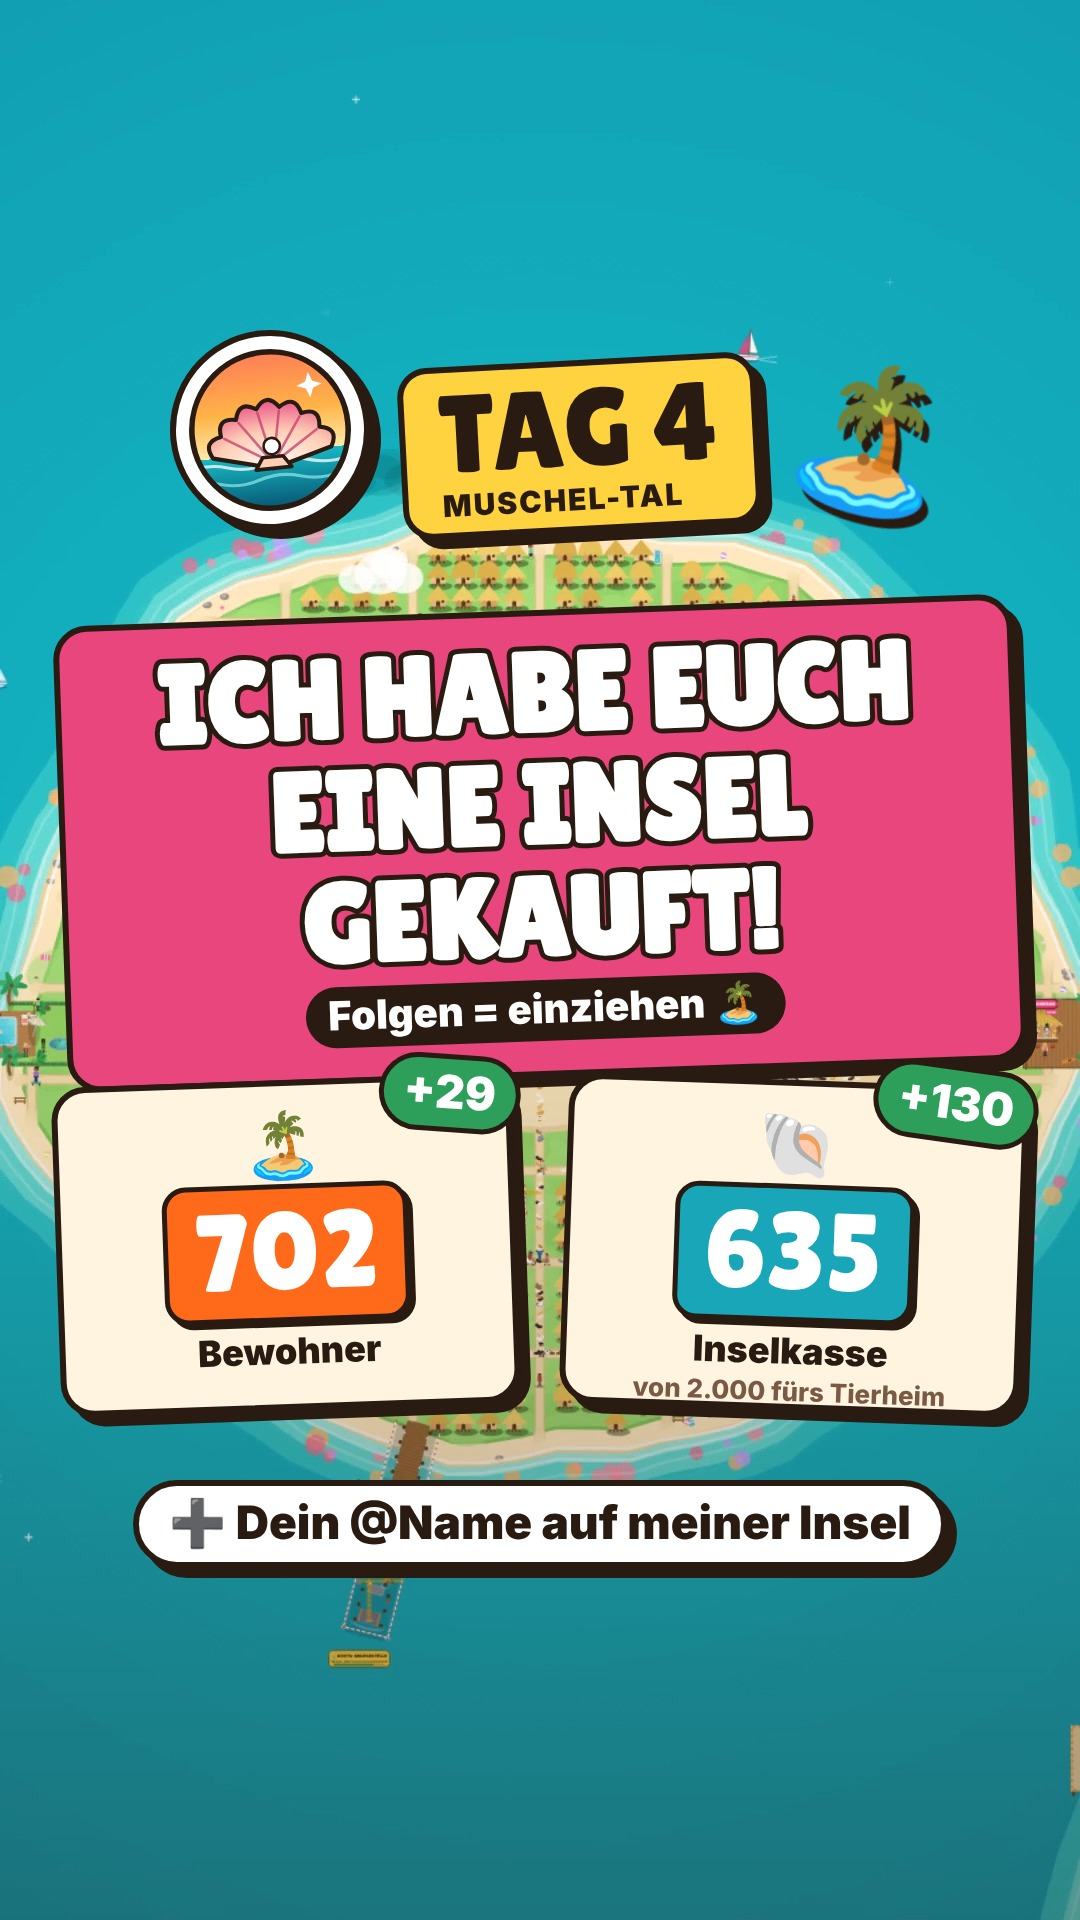
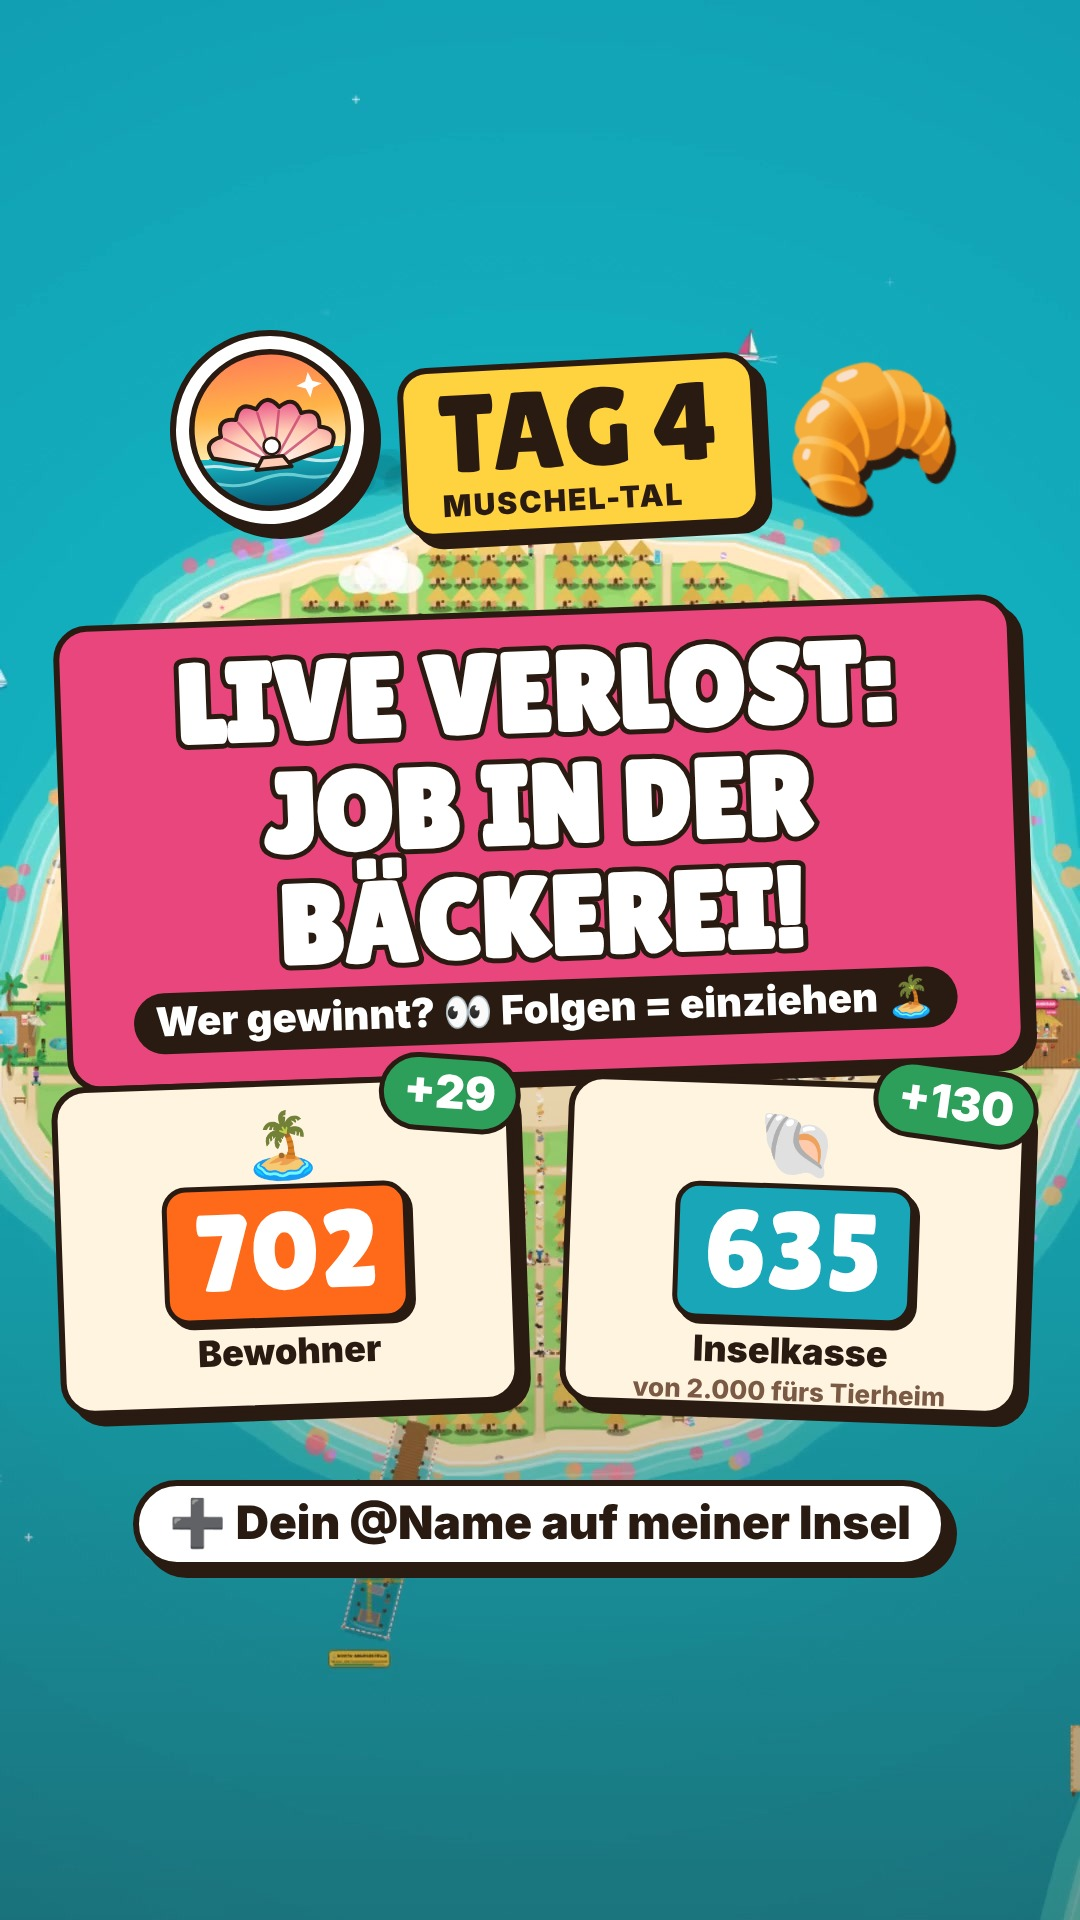
Tag 4: Thumbnail mit Teaser Live-Verlosung Bäckerei-Job
Claude-Session: https://claude.ai/code/session_01McNdgWwqfWZ56Gqk3h71JF

Changed region(s): [[0.1222, 0.3125, 0.8861, 0.5625], [0.7333, 0.1875, 0.8861, 0.2812]]

diff --git a/videos/muscheltal-tag4/cover/thumb.html b/videos/muscheltal-tag4/cover/thumb.html
@@ -25,8 +25,8 @@
 <div id="bg"></div>
 <div id="logo" class="stk"><svg viewBox="0 0 64 64"><defs><linearGradient id="cvsky" x1="0" y1="0" x2="0" y2="1"><stop offset="0" stop-color="#ff7a59"/><stop offset=".38" stop-color="#ffb347"/><stop offset=".64" stop-color="#ffe9a8"/><stop offset=".64" stop-color="#18b8c4"/><stop offset="1" stop-color="#06506e"/></linearGradient><radialGradient id="cvsh" cx=".5" cy=".95" r=".9"><stop offset="0" stop-color="#fffaf2"/><stop offset=".55" stop-color="#ffcdb5"/><stop offset="1" stop-color="#ec5f8d"/></radialGradient><clipPath id="cvc"><circle cx="32" cy="32" r="30"/></clipPath></defs><g clip-path="url(#cvc)"><rect width="64" height="64" fill="url(#cvsky)"/><path d="M-2 45 Q6 42.5 14 45 T30 45 T46 45 T62 45 T78 45" stroke="#fff" stroke-width="1.2" fill="none" opacity=".75"/><path d="M-6 51 Q2 48.5 10 51 T26 51 T42 51 T58 51 T74 51" stroke="#8fe8e8" stroke-width="1.2" fill="none" opacity=".7"/></g><path d="M32 47 L8.8 40.8 Q5.0 34.0 12.7 32.7 Q11.6 25.0 19.2 26.7 Q21.0 19.1 27.5 23.4 Q32.0 17.0 36.5 23.4 Q43.0 19.1 44.8 26.7 Q52.4 25.0 51.3 32.7 Q59.0 34.0 55.2 40.8 Z" fill="url(#cvsh)" stroke="#2a1b12" stroke-width="1.6" stroke-linejoin="round"/><path d="M32 45L13.9 33.6M32 45L20.0 27.9M32 45L27.8 24.9M32 45L36.2 24.9M32 45L44.0 27.9M32 45L50.1 33.6" stroke="#c43d6b" stroke-width="1" stroke-linecap="round" opacity=".75"/><path d="M25 47 L28 42.5 H36 L39 47 Z" fill="#ffcdb5" stroke="#2a1b12" stroke-width="1.4" stroke-linejoin="round"/><circle cx="32" cy="38.3" r="3.2" fill="#fff" stroke="#2a1b12" stroke-width="1"/><path d="M49 11 l1.4 3.6 3.6 1.4 -3.6 1.4 -1.4 3.6 -1.4 -3.6 -3.6 -1.4 3.6 -1.4z" fill="#fff"/><circle cx="32" cy="32" r="30.5" fill="none" stroke="#2a1b12" stroke-width="2.2"/></svg></div>
 <div id="tag" class="stk">TAG 4<small>MUSCHEL-TAL</small></div>
-<div id="hl" class="stk"><b>ICH HABE EUCH EINE INSEL GEKAUFT!</b><span>Folgen = einziehen 🏝</span></div>
-<div id="coco">🏝</div>
+<div id="hl" class="stk"><b>LIVE VERLOST: JOB IN DER BÄCKEREI!</b><span>Wer gewinnt? 👀 Folgen = einziehen 🏝</span></div>
+<div id="coco">🥐</div>
 <div id="c1" class="stk card"><div class="ic">🏝</div><div class="n">702</div><div class="l">Bewohner</div><div class="d">+29</div></div>
 <div id="c2" class="stk card"><div class="ic">🐚</div><div class="n" style="background:#18a6b8">635</div><div class="l">Inselkasse</div><div class="v">von 2.000 fürs Tierheim</div><div class="d">+130</div></div>
 <div id="acc" class="stk">➕ Dein @Name auf meiner Insel</div>

diff --git a/videos/muscheltal-tag4/BESCHREIBUNG.md b/videos/muscheltal-tag4/BESCHREIBUNG.md
@@ -1,6 +1,6 @@
 # Muschel-Tal – Tag 4 · Beschreibung
 
-**Cover:** `renders/cover.jpg` (Vorlage `cover/thumb.html`, gewohntes Layout) – Logo + „TAG 4“, 🏝, „ICH HABE EUCH EINE INSEL GEKAUFT! – Folgen = einziehen 🏝“, Karten „702 Bewohner (+29)“ und „635 Inselkasse (+130, von 2.000 fürs Tierheim)“, „➕ Dein @Name auf meiner Insel“. Hintergrund: die volle Haupt-Insel im Meer (Homepage-Aufnahme).
+**Cover:** `renders/cover.jpg` (Vorlage `cover/thumb.html`, gewohntes Layout) – Logo + „TAG 4“, 🥐, „LIVE VERLOST: JOB IN DER BÄCKEREI! – Wer gewinnt? 👀 Folgen = einziehen 🏝“ (größter Teaser der Folge, verrät den Gewinner nicht), Karten „702 Bewohner (+29)“ und „635 Inselkasse (+130, von 2.000 fürs Tierheim)“, „➕ Dein @Name auf meiner Insel“. Hintergrund: die volle Haupt-Insel im Meer (Homepage-Aufnahme).
 
 ## Hauptversion (zum Posten)
 Ich hab euch eine Insel gekauft 🏝 Folg mir und zieh ein – deine Hütte mit deinem @Namen wartet!
